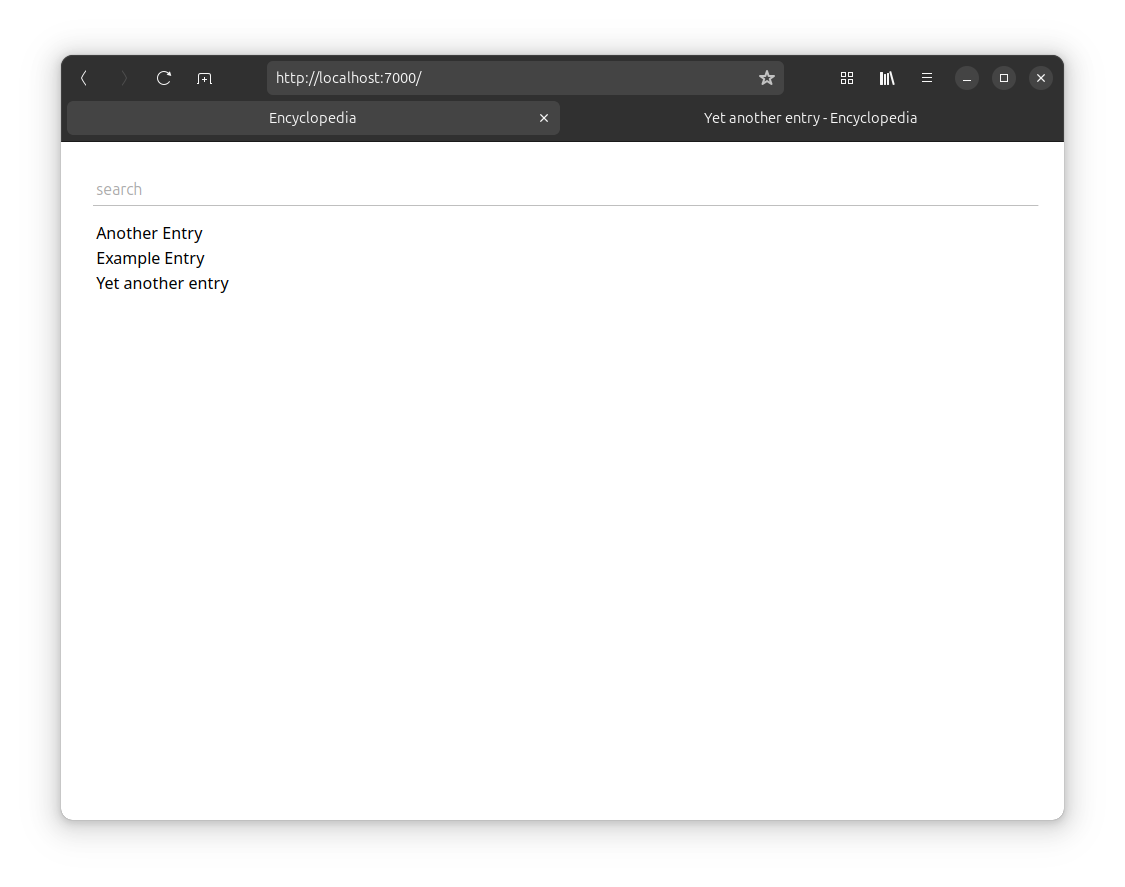
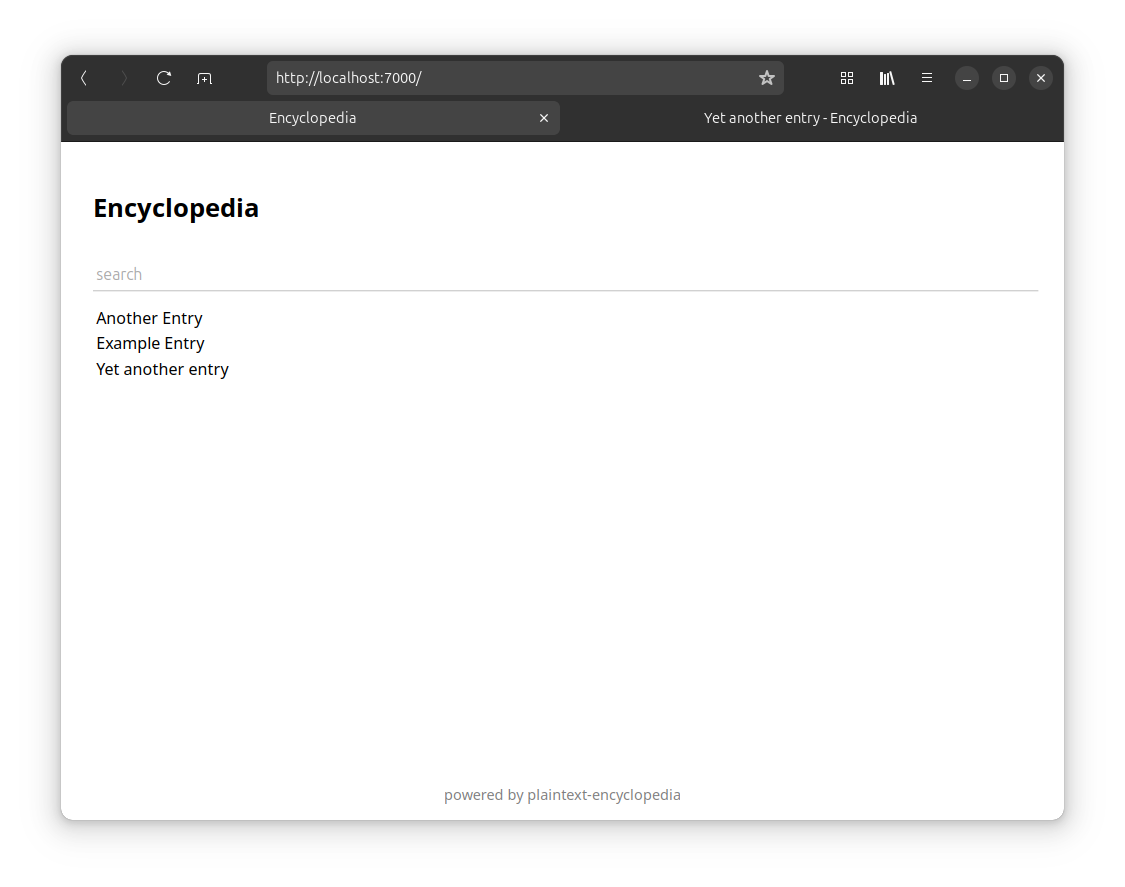
Added a footer, added the main title to the home page, minor improvements

Changed region(s): [[0.0622, 0.2131, 0.2489, 0.4262], [0.4044, 0.8828, 0.5911, 0.9132]]

diff --git a/public/static/style.css b/public/static/style.css
@@ -6,6 +6,7 @@ body {
     flex-direction: column;
     align-items: center;
     width: 100vw;
+    min-height: 100vh;
     font-family: sans-serif;
 }
 a:hover, a:focus { text-decoration: underline; }
@@ -13,6 +14,22 @@ a {
     color: black;
     text-decoration: none;
     outline: none;
+}
+footer {
+    margin-top: auto;
+    padding: 1rem;
+    box-sizing: border-box;
+    display: flex;
+    justify-content: center;
+    flex-wrap: wrap;
+}
+footer > div {
+    margin: 0 .5rem;
+}
+footer, footer * {
+    color: #00000080 !important;
+    font-size: .9rem;
+    text-align: center;
 }
 
 .homebtn {
@@ -33,7 +50,8 @@ a {
 }
 .main > h1 {
     font-size: 1.4rem;
-    margin-bottom: 0;
+    margin-top: 1.5rem;
+    margin-bottom: .5rem;
     text-align: center;
 }
 .content { white-space: pre-line; }
@@ -43,6 +61,9 @@ a {
     padding: 2rem;
     box-sizing: border-box;
     gap: 1rem;
+}
+.home-main > h1 {
+    font-size: 1.6rem;
 }
 .home-main, .toc, #search-results {
     display: flex;
@@ -66,6 +87,9 @@ a {
 
 @media only screen and (max-width: 750px) {
     .main { margin-top: 4rem; }
+    .main > h1 {
+        margin-top: unset;
+    }
     .main > h1, .content {
         width: 90vw;
         max-width: unset;

diff --git a/public/index.html b/public/index.html
@@ -19,6 +19,7 @@
 </div>
 {{- else -}}
 <div class="home-main">
+    <h1>{{ .Title }}</h1>
     <input type="text" id="search-box" placeholder="search">
     <div id="search-results" class="hidden"></div>
     <div class="toc" id="toc">
@@ -29,5 +30,6 @@
 </div>
 <script src="/static/search.js"></script>
 {{- end}}
+<footer>{{ range .Footer }}<div>{{ . }}</div>{{ end }}</footer>
 </body>
 </html>

diff --git a/settings.go b/settings.go
@@ -1,10 +1,19 @@
 package main
 
-import "golang.org/x/text/language"
+import (
+	"html/template"
+
+	"golang.org/x/text/language"
+)
 
 const ServerListen = ":7000"
+
 const EntriesDirectory = "./entries"
 const TemplateFile = "./public/index.html"
 const StaticDirectory = "./public/static"
-const MainTitle = "Encyclopedia"
 var ContentLanguage = language.English
+
+const MainTitle = "Encyclopedia"
+var FooterContent = []template.HTML{
+	template.HTML("powered by <a href='https://github.com/ChaoticByte/plaintext-encyclopedia' target='_blank' rel='noopener noreferrer'>plaintext-encyclopedia</a>"),
+}

diff --git a/main.go b/main.go
@@ -20,6 +20,7 @@ type TemplateData struct {
 	Entry string
 	Title string
 	EntryTitle string
+	Footer []template.HTML
 }
 
 func loadTemplate() {
@@ -41,7 +42,7 @@ func handleApplication(w http.ResponseWriter, req *http.Request) {
 	}
 	err = appTemplate.ExecuteTemplate(
 		w, "app",
-		TemplateData{TOC: db.Keys, Entry: entry, Title: MainTitle, EntryTitle: entryName})
+		TemplateData{TOC: db.Keys, Entry: entry, Title: MainTitle, EntryTitle: entryName, Footer: FooterContent})
 	if err != nil { logger.Println(err) }
 }
 
